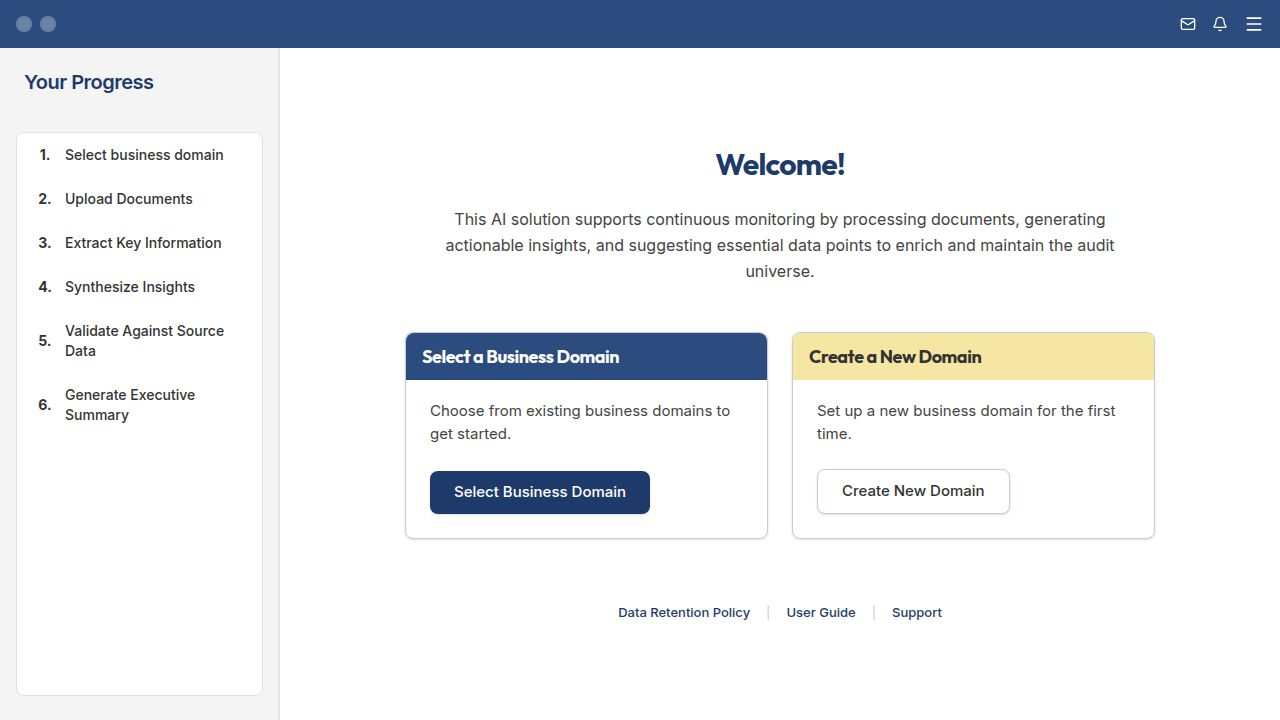
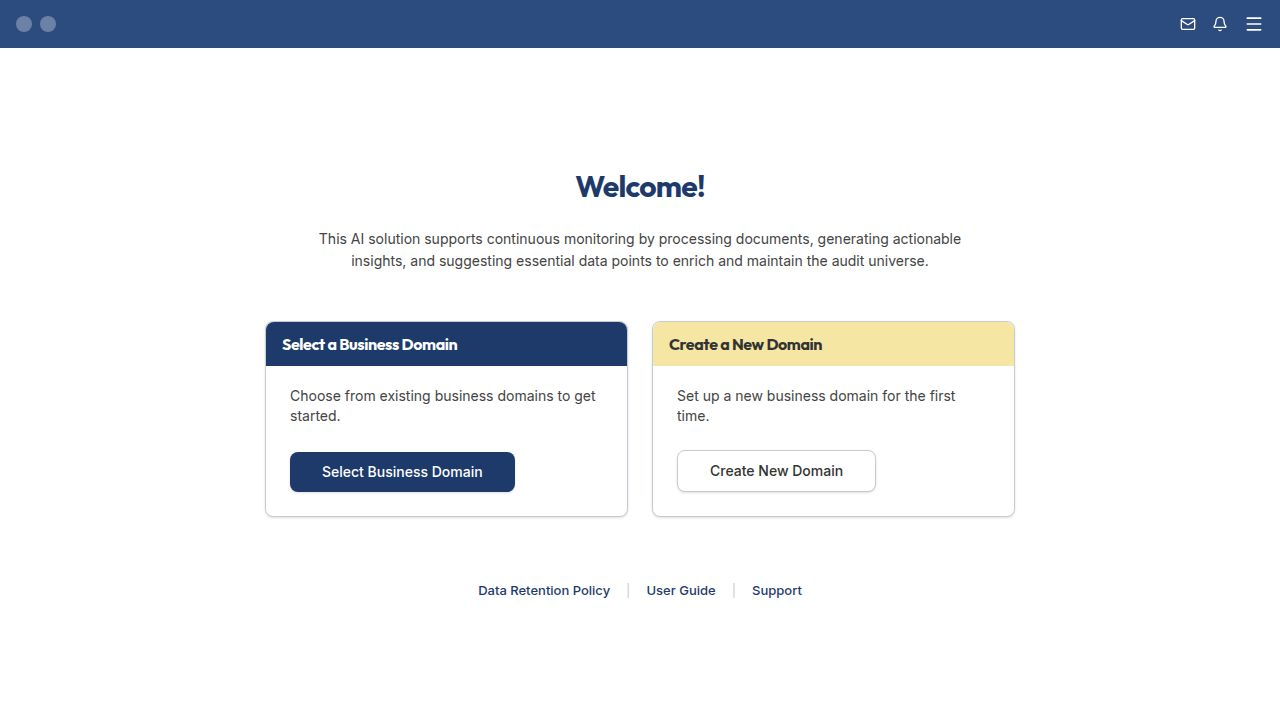
Update navigation links and sidebar to improve user flow
Refactor Sidebar component to separate Step 1 from other steps and update Welcome page button to link to `/step-1`.

Replit-Commit-Author: Agent
Replit-Commit-Session-Id: d84b6605-83f5-4a06-85b5-e8a761f2c0ef
Replit-Commit-Checkpoint-Type: full_checkpoint
Replit-Commit-Event-Id: 8eaa8529-8eb1-4bc0-88b3-4b0be024a50e
Replit-Commit-Screenshot-Url: https://storage.googleapis.com/screenshot-production-us-central1/9b567f17-eadb-4c9e-ab90-35ae636491bf/d84b6605-83f5-4a06-85b5-e8a761f2c0ef/y1JPM4D
Replit-Helium-Checkpoint-Created: true

diff --git a/client/src/components/Sidebar.tsx b/client/src/components/Sidebar.tsx
@@ -7,9 +7,9 @@ export default function Sidebar() {
 
   const isReviewPhase = location === "/review-validate" || location === "/expand-search" || location === "/insights-summary";
 
-  // Sidebar changes completely based on the mockup when transitioning to this new phase
-  const MAIN_STEPS = [
-    { id: 1, label: "Select business domain", isActive: location === "/step-1", isCompleted: location === "/step-2" || location === "/step-3" || location === "/step-4" || location === "/step-5" || location === "/step-6" },
+  const STEP_1 = { id: 1, label: "Select business domain", isActive: location === "/step-1", isCompleted: location === "/step-2" || location === "/step-3" || location === "/step-4" || location === "/step-5" || location === "/step-6" };
+
+  const DOC_STEPS = [
     { id: 2, label: "Upload Documents", isActive: location === "/step-2", isCompleted: location === "/step-3" || location === "/step-4" || location === "/step-5" || location === "/step-6" },
     { id: 3, label: "Extract Key Information", isActive: location === "/step-3", isCompleted: location === "/step-4" || location === "/step-5" || location === "/step-6" },
     { id: 4, label: "Synthesize Insights", isActive: location === "/step-4", isCompleted: location === "/step-5" || location === "/step-6" },
@@ -23,7 +23,45 @@ export default function Sidebar() {
     { id: 3, label: "Generate Insights Summary", isActive: location === "/insights-summary", isCompleted: false, checkmark: true },
   ];
 
-  const currentSteps = isReviewPhase ? REVIEW_STEPS : MAIN_STEPS;
+  const renderStep = (step: any) => {
+    const isCompletedAndNotActive = step.isCompleted && !step.isActive;
+    const isCompletedAndActive = step.isCompleted && step.isActive;
+
+    return (
+      <li key={step.id}>
+        <div
+          className={cn(
+            "flex items-center px-4 py-3 text-sm font-medium border-b border-[#e0e0e0] last:border-0",
+            (step.isActive || isCompletedAndNotActive) ? "bg-[#fff8cc] text-[#333]" : "bg-white text-[#333]"
+          )}
+        >
+          <div className="w-6 flex-shrink-0 flex justify-center mr-2">
+            {step.isCompleted || isCompletedAndActive || (step.isActive && step.checkmark) ? (
+              <Check className="w-5 h-5 text-black" strokeWidth={2.5} />
+            ) : (
+              <span className="font-bold">{step.id}.</span>
+            )}
+          </div>
+          <span className="whitespace-pre-line">{step.label}</span>
+        </div>
+      </li>
+    );
+  };
+
+  if (isReviewPhase) {
+    return (
+      <div className="w-[280px] bg-[#f4f4f4] border-r border-[#e0e0e0] flex flex-col h-full shrink-0 shadow-[inset_-1px_0_0_rgba(0,0,0,0.05)]">
+        <div className="px-6 py-5">
+          <h2 className="text-[#1e3a6a] text-xl font-semibold font-sans mb-4">Your Progress</h2>
+        </div>
+        <nav className="flex-1 bg-white mx-4 rounded-sm border border-[#e0e0e0] overflow-hidden mb-6">
+          <ul className="flex flex-col">
+            {REVIEW_STEPS.map(renderStep)}
+          </ul>
+        </nav>
+      </div>
+    );
+  }
 
   return (
     <div className="w-[280px] bg-[#f4f4f4] border-r border-[#e0e0e0] flex flex-col h-full shrink-0 shadow-[inset_-1px_0_0_rgba(0,0,0,0.05)]">
@@ -31,32 +69,15 @@ export default function Sidebar() {
         <h2 className="text-[#1e3a6a] text-xl font-semibold font-sans mb-4">Your Progress</h2>
       </div>
 
+      <nav className="bg-white mx-4 rounded-sm border border-[#e0e0e0] overflow-hidden mb-3">
+        <ul className="flex flex-col">
+          {renderStep(STEP_1)}
+        </ul>
+      </nav>
+
       <nav className="flex-1 bg-white mx-4 rounded-sm border border-[#e0e0e0] overflow-hidden mb-6">
         <ul className="flex flex-col">
-          {currentSteps.map((step, index) => {
-            const isCompletedAndNotActive = step.isCompleted && !step.isActive;
-            const isCompletedAndActive = step.isCompleted && step.isActive;
-            
-            return (
-              <li key={step.id}>
-                <div 
-                  className={cn(
-                    "flex items-center px-4 py-3 text-sm font-medium border-b border-[#e0e0e0] last:border-0",
-                    (step.isActive || isCompletedAndNotActive) ? "bg-[#fff8cc] text-[#333]" : "bg-white text-[#333]"
-                  )}
-                >
-                  <div className="w-6 flex-shrink-0 flex justify-center mr-2">
-                    {step.isCompleted || isCompletedAndActive || (step.isActive && step.checkmark) ? (
-                      <Check className="w-5 h-5 text-black" strokeWidth={2.5} />
-                    ) : (
-                      <span className="font-bold">{step.id}.</span>
-                    )}
-                  </div>
-                  <span className="whitespace-pre-line">{step.label}</span>
-                </div>
-              </li>
-            );
-          })}
+          {DOC_STEPS.map(renderStep)}
         </ul>
       </nav>
     </div>

diff --git a/client/src/pages/Welcome.tsx b/client/src/pages/Welcome.tsx
@@ -23,7 +23,7 @@ export default function Welcome() {
           <div>
             <button
               data-testid="button-select-domain"
-              onClick={() => setLocation("/domain-home")}
+              onClick={() => setLocation("/step-1")}
               className="bg-[#1e3a6a] hover:bg-[#152a4d] text-white text-sm font-medium px-8 py-2.5 rounded-sm shadow-sm transition-colors"
             >
               Select Business Domain
